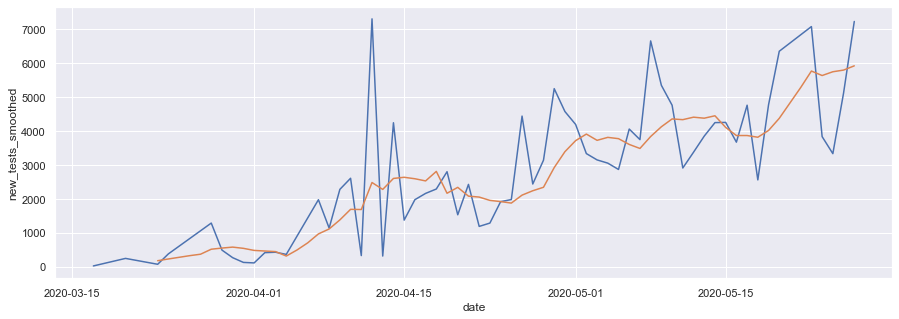
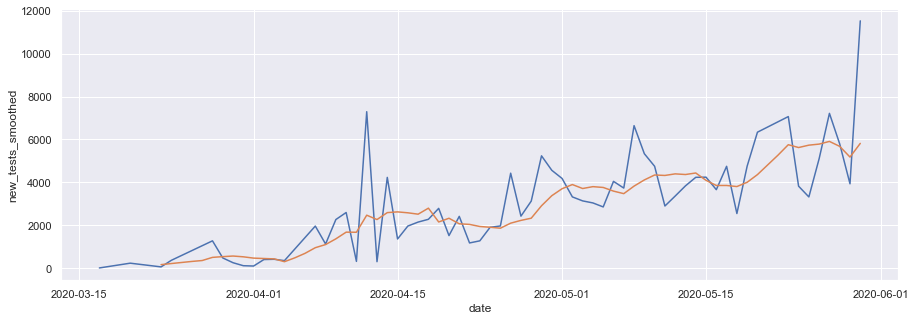
update tes harian

diff --git a/blog/_posts/2020-05-28-tesharian.md b/blog/_posts/2020-05-28-tesharian.md
@@ -26,22 +26,28 @@ sns.lineplot(x=x, y=y, data=c)
 sns.lineplot(x=x, y=y1, data=c)
 ```
 
-![png](/images/output_1_1.png)
 
-Gambar di atas menunjukkan jumlah “new test” per hari. saya ambil datanya dari [our world in data](https://ourworldindata.org/coronavirus-data). Datanya update harian sesuai dengan laporan pemerintah. di sumbu x saya kasih tanggal, sementara di sumbu y adalah variabel yang namanya “new_tests” kalo di dataset aslinya. Intinya mah ini adalah tes harian CMIIW. Garis biru adalah jumlah tes harian yang beneran harian (makanya volatil, tergantung kondisi lapangan), sementara yang merah adalah pertumbuhan rata-rata (alias jumlah tes harian yang diperhalus kurva-nya).
+
+
+    <matplotlib.axes._subplots.AxesSubplot at 0x248ab12e948>
+
+
+
+
+![png](output_1_1.png)
+
+
+Gambar di atas menunjukkan jumlah “new test” per hari. saya ambil datanya dari [our world in data](https://ourworldindata.org/coronavirus-data). Datanya update harian sesuai dengan laporan pemerintah. di sumbu x saya kasih tanggal, sementara di sumbu y adalah variabel yang namanya “new_tests” kalo di dataset aslinya. Intinya mah ini adalah tes harian CMIIW.
 
 jumlah tes hariannya adalah titik-titik dan garis item, sementara garis biru menunjukkan smoothed new tests, alias yang diperhalus.
 
 Jumlah tes harian Indonesia keliatan banget bolong-bolongnya, dan keliatannya sampai 26 Mei 2020, jumlah tes harian kita masih volatil banget. Naik turunnya agak ga jelas. Beberapa pendapat yang saya lihat di twitter sih bilangnya jumlah tes harian emang sulit diperkirakan karena faktornya nggak cuma jumlah swab yang dilakukan, tapi juga antrian sampel-sampel tersebut di lab. Jadi bisa jadi angka yang muncul itu sebenernya hasil swab kemaren yang baru di-tes hari ini.
 
-Saya nggak terlalu ngikutin sih perdebatan testing COVID-19 hahaha maaf. Dah lama nggak update COVID-19, cuma gara-gara tiba-tiba ada rame-rame pembukaan ekonomi kembali, jadinya penasaran. Selain itu, katanya Bio Farma sudah berhasil bikin PCR test kit sendiri, [bahkan diklaim sanggup bikin 100,000 per hari](https://tirto.id/jokowi-klaim-indonesia-produksi-alat-rapid-tes-pcr-100-ribu-hari-fzhZ) jadinya mestinya tes hariannya meroket dong (tentu saja asumsinya logistik ke lab dan proses di lab-nya lancar dan cukup kapasitas). Tapi keliatannya klaim tersebut belum terwujud di jumlah tes harian ya?
-
-Jadi penasaran apa yang membuat pemerintah merasa percaya diri membuka ekonomi kalau tes hariannya masih aneh gitu. Pastinya alasan ini adalah sesuatu yang saya nggak tau. Bisa jadi PCR test nya baru akan meroket per hari ini, cuma publik belom tau aja hehe.
+Saya nggak terlalu ngikutin sih perdebatan testing COVID-19 hahaha maaf. Dah lama nggak update COVID-19, cuma gara-gara tiba-tiba ada rame-rame pembukaan ekonomi kembali, jadinya penasaran. Selain itu, katanya Bio Farma sudah berhasil bikin PCR test kit sendiri, [bahkan diklaim sanggup bikin 100,000 per hari](https://tirto.id/jokowi-klaim-indonesia-produksi-alat-rapid-tes-pcr-100-ribu-hari-fzhZ). Dengan asumsinya logistik ke lab dan proses di lab-nya lancar dan cukup kapasitas, sepertinya masif testing dapat dilakukan. Mudah-mudahan peningkatan ini berlanjut terus dan bisa *sustainable* di masa *new normal* ini.
 
 Oh iya, datanya dari pemerintah pusat, sementara data pemerintah pusat adalah hasil tes mereka plus tes yang dilakukan oleh pemerintah daerah (dan mungkin swasta?). Meskipun kita nggak tau data selain dari pemerintah pusat, setidaknya pemerintah daerah tau data daerahnya sendiri. hehe.
 
 BTW, negara lain juga “new tests”-nya agak aneh. New Zealand dan Malaysia juga volatil sementara Jepang nggak report new tests nya (tapi totalnya ada). Vietnam malah mendadak turun trus ilang di tengah jalan. Jadi mungkin ini sebabnya Pak Jokowi sangat percaya diri he he he he.
-
 
 
 ```python
@@ -57,8 +63,16 @@ sns.lineplot(x="date", y="new_tests", hue="iso_code", style="iso_code",data=cn)
 ```
 
 
-![png](/images/output_3_1.png)
 
-Ini saya pake tes harian, bukan tes harian per 1,000 penduduk. soalnya kalo pake tes harian, negara laen jauh bgt di atas. Indo jadi kayak garis lurus doang hahaha. Eniwe sebenernya di sini saya mau coba pake argumen "berani open karena kapasitas testing sudah ditingkatkan". Kalau pake argumen ini kayaknya lumayan, secara tren kita udah naik. Tentu saja apakah itu dah cukup atau belum, masih subyek debat yang saya yakin udah banyak yang bahas.
+
+    <matplotlib.axes._subplots.AxesSubplot at 0x248ad551288>
+
+
+
+
+![png](output_3_1.png)
+
+
+Ini saya pake tes harian, bukan tes harian per 1,000 penduduk. soalnya kalo pake tes harian, negara laen jauh bgt di atas. Indo jadi kayak garis lurus doang hahaha. Eniwe sebenernya di sini saya mau coba pake argumen “berani open karena kapasitas testing sudah ditingkatkan”. Kalau pake argumen ini kayaknya lumayan, secara tren kita udah naik. Tentu saja apakah itu dah cukup atau belum, masih subyek debat yang saya yakin udah banyak yang bahas.
 
 Akhir kata, alasan dibalik keputusan membuka kembali ekonomi tentu ada banyak, tidak hanya tes aja. Saya tidak coba membahas alasan-alasan yang lain selain peningkatan kapasitas testing. Postingan kali ini simply cuma untuk ngasi liat gambaran singkat bagaimana perkembangan testing harian kita. Cukup lah yang lain biar menjadi perdebatan orang-orang yang lebih ahli hehe.
